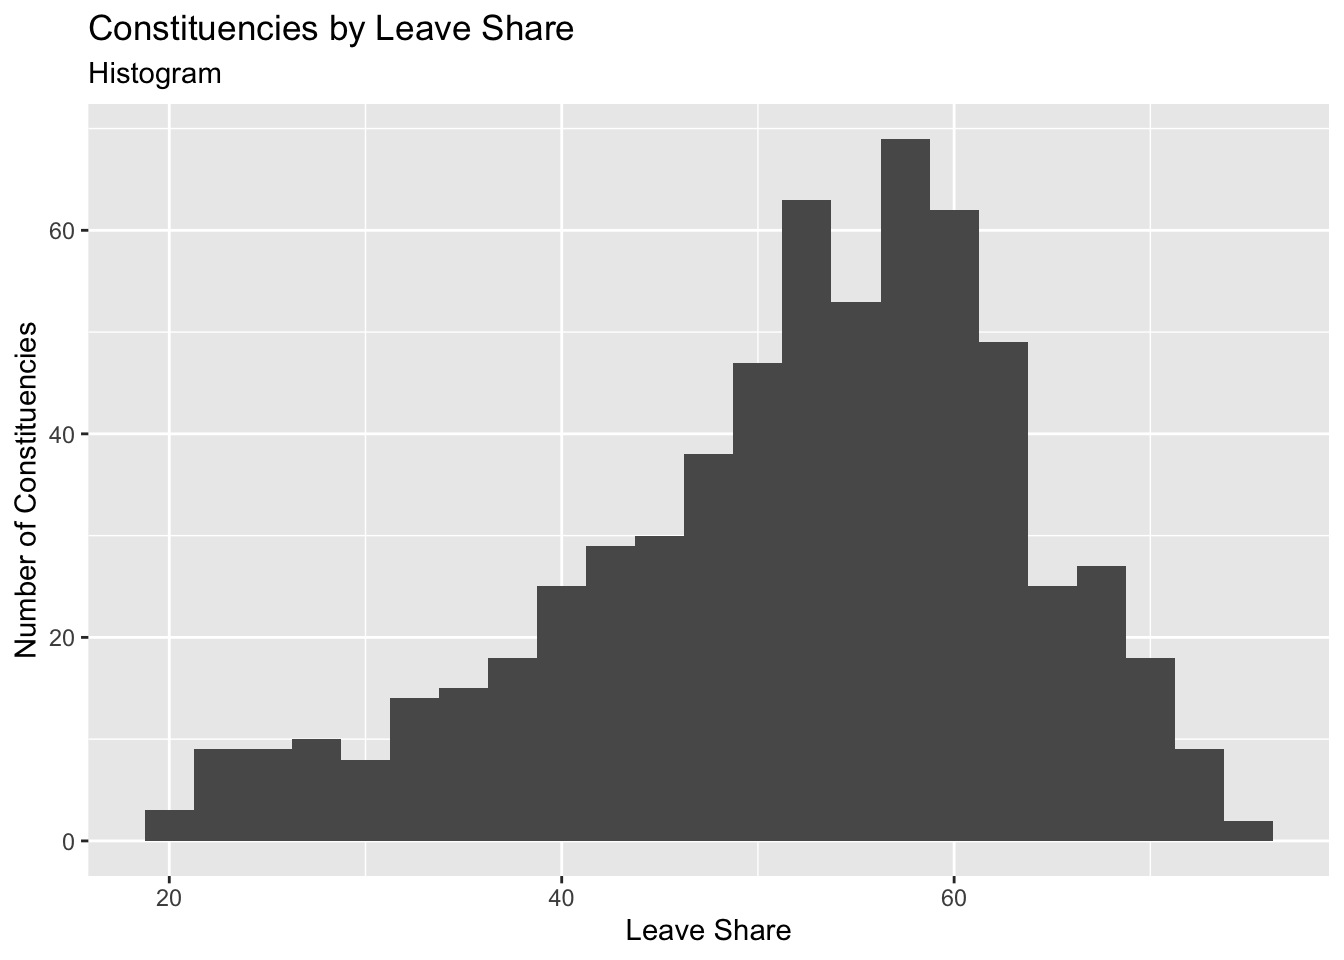
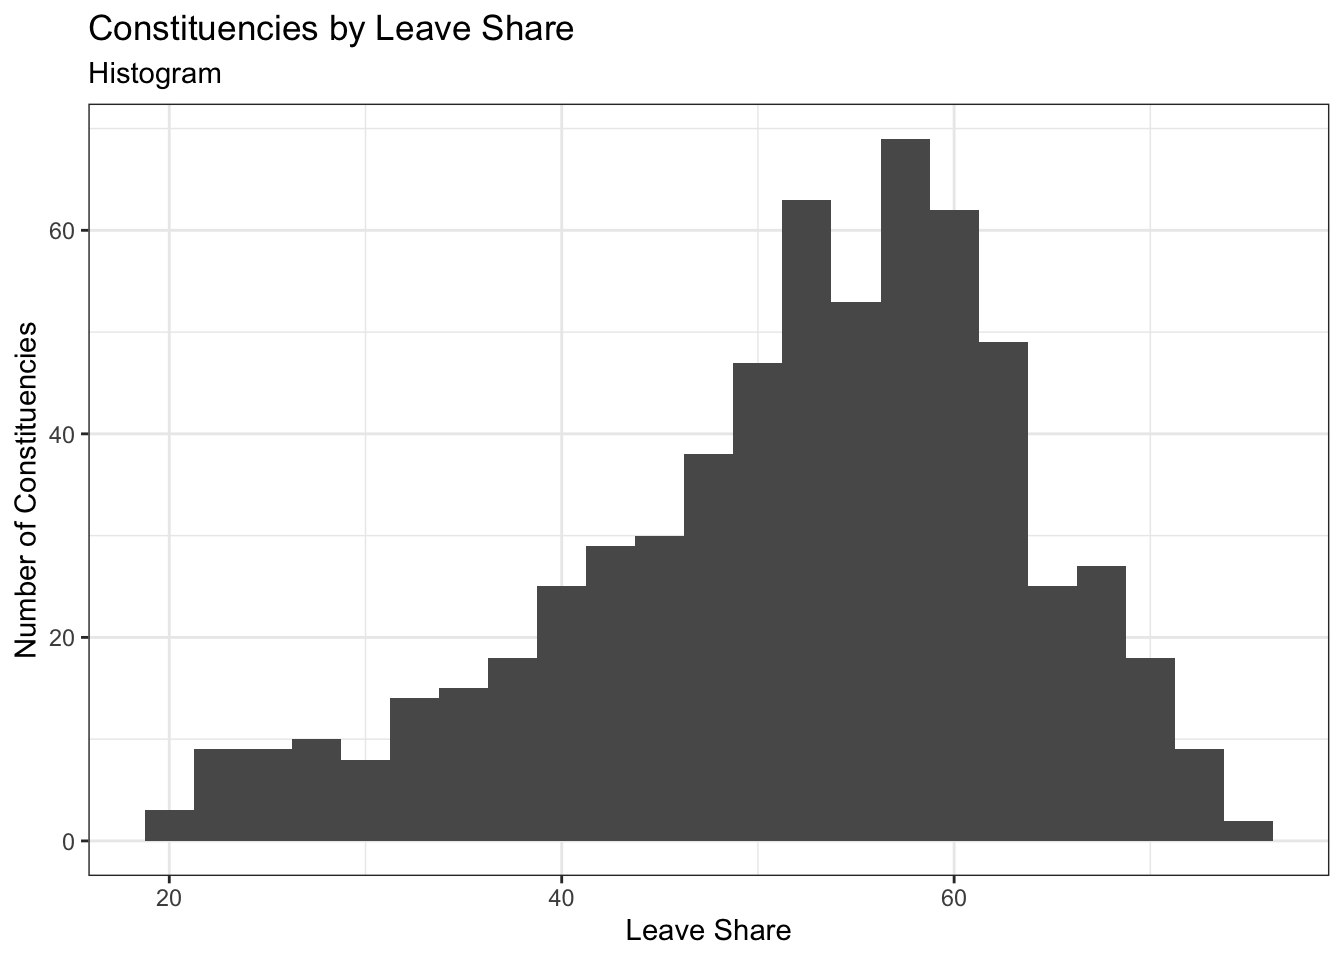
Brexit again

diff --git a/content/blogs/Brexit.html b/content/blogs/Brexit.html
@@ -33,11 +33,13 @@ glimpse(brexit_results)</code></pre>
 <p>To get a sense of the spread of the data, I plotted a histogram and a density plot of the leave share in all constituencies.</p>
 <pre class="r"><code>ggplot(brexit_results, aes(x = leave_share)) +
   geom_histogram(binwidth = 2.5) + 
-  labs(title = &quot;Constituencies by Leave Share&quot;, subtitle = &quot;Histogram&quot;, x = &quot;Leave Share&quot;, y = &quot;Number of Constituencies&quot;)</code></pre>
+  labs(title = &quot;Constituencies by Leave Share&quot;, subtitle = &quot;Histogram&quot;, x = &quot;Leave Share&quot;, y = &quot;Number of Constituencies&quot;) +
+  theme_bw()</code></pre>
 <p><img src="/blogs/Brexit_files/figure-html/brexit_histogram-1.png" width="672" /></p>
 <pre class="r"><code>ggplot(brexit_results, aes(x = leave_share)) +
   geom_density() + 
-  labs(title = &quot;Constituencies by Leave Share&quot;, subtitle = &quot;Density Plot&quot;, x = &quot;Leave Share&quot;, y = &quot;Density&quot;)</code></pre>
+  labs(title = &quot;Constituencies by Leave Share&quot;, subtitle = &quot;Density Plot&quot;, x = &quot;Leave Share&quot;, y = &quot;Density&quot;) +
+  theme_bw()</code></pre>
 <p><img src="/blogs/Brexit_files/figure-html/brexit_histogram-2.png" width="672" /></p>
 <p>One common explanation for the Brexit outcome was fear of immigration and opposition to the EU’s more open border policy. I can check the relationship between the proportion of native born residents, born_in_uk, in a constituency and its leave_share. To do this, I get the correlation between the two variables</p>
 <pre class="r"><code>brexit_results %&gt;% 
@@ -51,7 +53,8 @@ glimpse(brexit_results)</code></pre>
 <pre class="r"><code>ggplot(brexit_results, aes(x = born_in_uk, y = leave_share)) +
   geom_point(alpha=0.3) +
   geom_smooth(method = &quot;lm&quot;) +
-  theme_bw() + labs(title = &quot;Native Britons Fuel Brexit&quot;, subtitle = &quot;Share Born in UK versus Leave Share&quot;, x = &quot;Share Born in UK&quot;, y = &quot;Leave Share&quot;)</code></pre>
+  theme_bw() + 
+  labs(title = &quot;Native Britons Fuel Brexit&quot;, subtitle = &quot;Share Born in UK versus Leave Share&quot;, x = &quot;Share Born in UK&quot;, y = &quot;Leave Share&quot;)</code></pre>
 <pre><code>## `geom_smooth()` using formula &#39;y ~ x&#39;</code></pre>
 <p><img src="/blogs/Brexit_files/figure-html/brexit_immigration_plot-1.png" width="672" /></p>
 <p>Most interesting to me is the number of constituencies in the block with more than 95% native Britons that did not provide a majority of their votes to leave. While still clearly outnumbered by those heavily native constituencies voting leave, the share that voted to remain is certainly significant. An interesting inclusion to the data would be information of income or level of education, both of which may help predict the way that constituencies voted. Furthermore, much like in Task 2 where we colored the data by country, coloring by region could provide some intriguing insights, especially if leave voters are concentrated in post-industrial regions and remain voters in the prosperous Southeast and Scotland. A final note is the absence of any constituencies where the majority of residents are native born and the majority of votes went for leave, located in the top left corner of the plot. This tends to imply that non-native residents are much easier to predict the voting patterns of than native residents, as almost every data point falls below the point where leave share is equal to native born share.</p>
